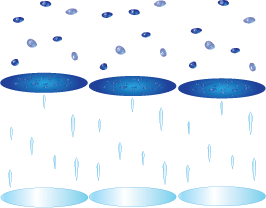
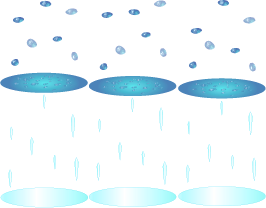
Sprint 3: Switch Pool

diff --git a/finalPhaserGame/group33game/js/main.js b/finalPhaserGame/group33game/js/main.js
@@ -249,7 +249,8 @@ MainMenu.prototype = {
 		game.load.physics('stageHitboxWide', 'js/json/stageWide1200.json', null);
 		game.load.physics('ruinsHitbox', 'js/json/level9Hitbox2.json', null);
 		game.load.physics('finalHitbox', 'js/json/level10Hitbox.json', null);
-		game.load.atlas('poolSwitch', 'assets/img/switchPool.png', 'js/json/switchPool.json');
+		//game.load.atlas('poolSwitch', 'assets/img/switchPool.png', 'js/json/switchPool.json');
+		game.load.atlas('poolSwitch', 'assets/img/switchAnimation.png', 'js/json/switchAnimation.json');
 		game.load.physics('housePhysics', 'js/json/houseHitbox.json', null);
 		game.load.atlas('characterSpritesheet', 'assets/img/characterSpritesheet.png', 'js/json/characterSprite.json');
 
@@ -1188,7 +1189,8 @@ Play.prototype = {
 		game.physics.p2.enable(wheel); //enable physics
 		wheel.physicsBodyType = Phaser.Physics.P2JS;*/
 		
-		switchPool = game.add.sprite(705, 1080, 'poolSwitch', 'waterPool');
+		switchPool = game.add.sprite(705, 1082, 'poolSwitch', 0);
+		switchPool.animations.add('normal', [0,0,1,2,2,1], 8, true);
 		switchPool.enableBody = true;
 		game.physics.p2.enable(switchPool); //enable physics
 		switchPool.physicsBodyType = Phaser.Physics.P2JS;
@@ -1200,6 +1202,7 @@ Play.prototype = {
 		switchPool.body.collides([touchPlatform],/* inPool, this*/);
 		switchPool.body.onBeginContact.add(inPool, this);
 		switchPool.body.onEndContact.add(outPool, this);
+		switchPool.play('normal');
 
 		waterFrozen = false;
 
@@ -1544,13 +1547,22 @@ Play.prototype = {
 				switchPool.frame = 0;
 				freezeSound.play();
 				var frame = waterfall.frame;
+				var frameP = switchPool.frame;
 				waterfall.animations.stop(true, true);
+				switchPool.animations.stop(true, true);
 				if(frame == 0){
 					waterfall.frame = 3;
 				}else if(frame == 1){
 					waterfall.frame = 4;
 				}else if(frame == 2){
 					waterfall.frame = 5;
+				}
+				if(frameP == 0){
+					switchPool.frame = 3;
+				}else if(frameP == 1){
+					switchPool.frame = 4;
+				}else if(frameP == 2){
+					switchPool.frame = 5;
 				}
 				downPress = true;
 			}else if(waterFrozen == true && downPress == false){
@@ -1559,6 +1571,7 @@ Play.prototype = {
 				switchPool.frame = 1;
 				thawSound.play();
 				waterfall.animations.play('flow');
+				switchPool.animations.play('normal');
 				downPress = true;
 			}
 		}else{
